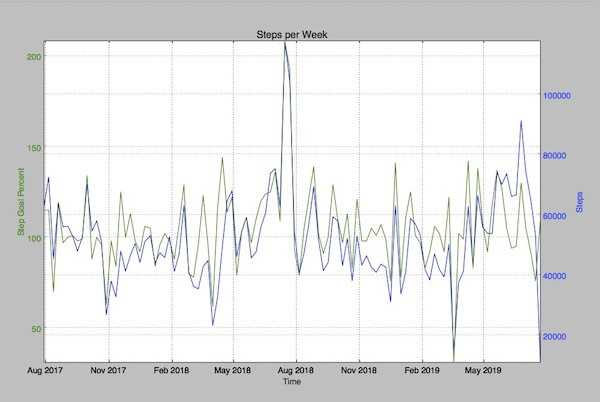
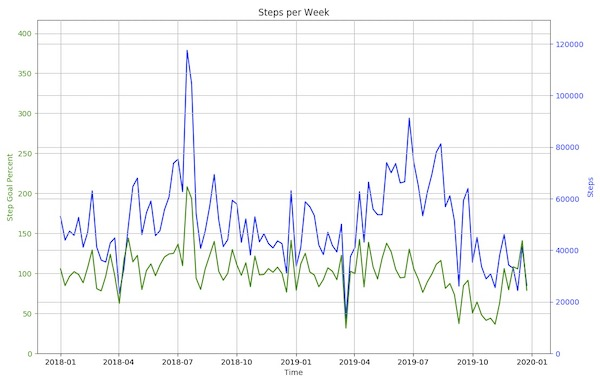
improved graphing support: new daily graph, improved existing graphs

diff --git a/graphs.py b/graphs.py
@@ -11,9 +11,12 @@ import sys
 import getopt
 import datetime
 import matplotlib.pyplot as plt
+import matplotlib.dates as mdates
 import enum
+import dateutil.parser
 
 import HealthDB
+import GarminDB
 import garmin_db_config_manager as GarminDBConfigManager
 from version import print_version
 
@@ -70,7 +73,7 @@ class Graph(object):
 
     @classmethod
     def __graph_mulitple_single_axes(cls, time, data_list, stat_name, ylabel, save):
-        title = '%s Over Time' % stat_name
+        title = f'{stat_name} Over Time'
         figure = plt.figure()
         for index, data in enumerate(data_list):
             color = Colors.from_integer(index).name
@@ -85,13 +88,13 @@ class Graph(object):
         plt.show()
 
     @classmethod
-    def __graph_mulitple(cls, time, data_list, stat_name, period, ylabel_list, save):
+    def __graph_mulitple(cls, time, data_list, stat_name, period, ylabel_list, yrange_list, save):
         units = {
             'days'      : 'Day',
             'weeks'     : 'Week',
             'months'    : 'Month'
         }
-        title = '%s per %s' % (stat_name, units[period])
+        title = f'{stat_name} per {units[period]}'
         figure = plt.figure()
         for index, data in enumerate(data_list):
             color = Colors.from_integer(index).name
@@ -104,7 +107,10 @@ class Graph(object):
             else:
                 axes.yaxis.tick_left()
             axes.tick_params(axis='y', colors=color)
-            axes.set_ylim([min(data), max(data)])
+            if yrange_list is None:
+                axes.set_ylim([min(data), max(data)])
+            else:
+                axes.set_ylim(yrange_list[index])
             axes.grid()
         axes.set_title(title)
         axes.set_xlabel('Time')
@@ -112,20 +118,45 @@ class Graph(object):
             figure.savefig(stat_name + ".png")
         plt.show()
 
+    @classmethod
+    def __graph_over(cls, date, over_data_dict, under_data_dict, title, xlabel, ylabel, save_name=None):
+        figure = plt.figure()
+        axes = figure.add_subplot(111, frame_on=True)
+        axes.fill_between(under_data_dict['time'], under_data_dict['data'], 0, color=Colors.c.name)
+        axes.set_ylim(under_data_dict['limits'])
+        axes.set_xticks([])
+        axes.set_yticks([])
+        axes = figure.add_subplot(111, frame_on=False)
+        axes.plot(over_data_dict['time'], over_data_dict['data'], color=Colors.b.name)
+        axes.set_ylim(over_data_dict['limits'])
+        axes.grid()
+        axes.set_title(title)
+        axes.set_xlabel(xlabel)
+        x_format = mdates.DateFormatter('%H:%M')
+        axes.xaxis.set_major_formatter(x_format)
+        axes.set_ylabel(ylabel)
+        if save_name:
+            figure.savefig(save_name)
+        plt.show()
+
     def _graph_steps(self, time, data, period):
         steps = [entry.steps for entry in data]
         steps_goal_percent = [entry.steps_goal_percent for entry in data]
-        self.__graph_mulitple(time, [steps, steps_goal_percent], 'Steps', period, ['Steps', 'Step Goal Percent'], self.save)
+        yrange_list = [(0, max(steps) * 1.1), (0, max(steps_goal_percent) * 2)]
+        self.__graph_mulitple(time, [steps, steps_goal_percent], 'Steps', period, ['Steps', 'Step Goal Percent'], yrange_list, self.save)
 
     def _graph_hr(self, time, data, period):
         rhr = [entry.rhr_avg for entry in data]
         inactive_hr = [entry.inactive_hr_avg for entry in data]
-        self.__graph_mulitple(time, [rhr, inactive_hr], 'Heart Rate', period, ['RHR', 'Inactive hr'], self.save)
+        self.__graph_mulitple(time, [rhr, inactive_hr], 'Heart Rate', period, ['RHR', 'Inactive hr'], [(30, 100), (30, 100)], self.save)
 
     def _graph_itime(self, time, data, period):
         itime = [entry.intensity_time_mins for entry in data]
         itime_goal_percent = [entry.intensity_time_goal_percent for entry in data]
-        self.__graph_mulitple(time, [itime, itime_goal_percent], 'Intensity Minutes', period, ['Intensity Minutes', 'Intensity Minutes Goal Percent'], self.save)
+        itime_goal_max = max([entry.intensity_time_goal_mins for entry in data])
+        yrange_list = [(0, itime_goal_max * 5), (0, max(itime_goal_percent) * 1.1)]
+        self.__graph_mulitple(time, [itime, itime_goal_percent], 'Intensity Minutes', period, ['Intensity Minutes', 'Intensity Minutes Goal Percent'],
+                              yrange_list, self.save)
 
     def _graph_weight(self, time, data, period):
         weight = [entry.weight_avg for entry in data]
@@ -133,9 +164,9 @@ class Graph(object):
 
     def graph_activity(self, activity, period, days):
         """Generate a graph for the given activity with points every period spanning days."""
-        if period is None or period == 'default':
+        if period is None:
             period = GarminDBConfigManager.graphs_activity_config(activity, 'period')
-        if days is None or days == 'default':
+        if days is None:
             days = GarminDBConfigManager.graphs_activity_config(activity, 'days')
         db_params = GarminDBConfigManager.get_db_params()
         sum_db = HealthDB.SummaryDB(db_params, self.debug)
@@ -151,6 +182,28 @@ class Graph(object):
         graph_func = getattr(self, graph_func_name, None)
         graph_func(time, data, period)
 
+    def graph_date(self, date):
+        """Generate a graph for the given date."""
+        db_params = GarminDBConfigManager.get_db_params()
+        mon_db = GarminDB.MonitoringDB(db_params, self.debug)
+        start_ts = datetime.datetime.combine(date, datetime.datetime.min.time())
+        end_ts = datetime.datetime.combine(date, datetime.datetime.max.time())
+        data = GarminDB.MonitoringHeartRate.get_for_period(mon_db, start_ts, end_ts, GarminDB.MonitoringHeartRate)
+        over_data_dict = {
+            'time'      : [entry.timestamp for entry in data],
+            'data'      : [entry.heart_rate for entry in data],
+            'limits'    : (30, 220)
+        }
+        data = GarminDB.Monitoring.get_for_period(mon_db, start_ts, end_ts, GarminDB.Monitoring)
+        under_data_dict = {
+            'time'      : [entry.timestamp for entry in data],
+            'data'      : [entry.intensity if entry.intensity is not None else 0 for entry in data],
+            'limits'    : (0, 10)
+        }
+        # self.__graph_day(date, (hr_time, hr), (mon_time, activity), self.save)
+        save_name = f"{date}_daily.png" if self.save else None
+        self.__graph_over(date, over_data_dict, under_data_dict, f'Daily Summary for {date}', 'Time of Day', 'hr over activity', save_name=save_name)
+
 
 def __print_usage(program, error=None):
     if error is not None:
@@ -162,6 +215,7 @@ def __print_usage(program, error=None):
     print('    --itime      : Graph intensity time data.')
     print('    --weight     : Graph weight data.')
     print('    --steps      : Graph steps data.')
+    print('    --day        : Graph metric for the given date.')
     print('    --latest     : Graph x most recent days.')
     print('    --period     : days, weeks, or months.')
     print('    --trace      : Turn on debug tracing. Extra logging will be written to log file.')
@@ -182,9 +236,10 @@ def main(argv):
     weight = False
     weight_period = None
     days = None
+    day = None
 
     try:
-        opts, args = getopt.getopt(argv, "adhHl:p:rsSt:wv", ["all", "latest=", "hr=", "itime", "save", "steps=", "trace=", "weight=", "version"])
+        opts, args = getopt.getopt(argv, "adhHl:p:rsSt:wv", ["all", "day=", "latest=", "hr=", "itime", "save", "steps=", "trace=", "weight=", "version"])
     except getopt.GetoptError as e:
         __print_usage(sys.argv[0], str(e))
 
@@ -199,6 +254,10 @@ def main(argv):
             steps = GarminDBConfigManager.is_stat_enabled('steps')
             itime = GarminDBConfigManager.is_stat_enabled('itime')
             weight = GarminDBConfigManager.is_stat_enabled('weight')
+            day = (datetime.datetime.now() - datetime.timedelta(days=1)).date()
+        elif opt in ("--day"):
+            day = dateutil.parser.parse(arg).date()
+            logging.debug("Day: %s", day)
         elif opt in ("-l", "--latest"):
             days = int(arg)
         elif opt in ("-S", "--save"):
@@ -240,6 +299,9 @@ def main(argv):
 
     if weight:
         graph.graph_activity('weight', weight_period, days)
+
+    if day:
+        graph.graph_date(day)
 
 
 if __name__ == "__main__":

diff --git a/HealthDB/summary_base.py b/HealthDB/summary_base.py
@@ -58,14 +58,22 @@ class SummaryBase(db.DBObject):
     @hybrid_property
     def intensity_time_mins(self):
         """Return intensity time as minutes."""
-        if self.intensity_time is not None:
-            return (conversions.time_to_secs(self.intensity_time) / 60)
-        return 0
+        return (conversions.time_to_secs(self.intensity_time) / 60) if self.intensity_time is not None else 0
 
     @intensity_time_mins.expression
     def intensity_time_mins(cls):
         """Return intensity time as minutes."""
         return (cls._secs_from_time(cls.intensity_time) / 60)
+
+    @hybrid_property
+    def intensity_time_goal_mins(self):
+        """Return intensity time as minutes."""
+        return (conversions.time_to_secs(self.intensity_time_goal) / 60) if self.intensity_time_goal is not None else 0
+
+    @intensity_time_goal_mins.expression
+    def intensity_time_goal_mins(cls):
+        """Return intensity time as minutes."""
+        return (cls._secs_from_time(cls.intensity_time_goal) / 60)
 
     @hybrid_property
     def intensity_time_goal_percent(self):
@@ -82,9 +90,7 @@ class SummaryBase(db.DBObject):
     @hybrid_property
     def steps_goal_percent(self):
         """Return the percentage of steps goal achieved."""
-        if self.steps is not None and self.steps_goal is not None:
-            return (self.steps * 100) / self.steps_goal
-        return 0.0
+        return (self.steps * 100) / self.steps_goal if self.steps is not None and self.steps_goal is not None else 0.0
 
     @steps_goal_percent.expression
     def steps_goal_percent(cls):
@@ -94,9 +100,7 @@ class SummaryBase(db.DBObject):
     @hybrid_property
     def floors_goal_percent(self):
         """Return the percentage of floors goal achieved."""
-        if self.floors is not None and self.floors_goal is not None:
-            return (self.floors * 100) / self.floors_goal
-        return 0.0
+        return (self.floors * 100) / self.floors_goal if self.floors is not None and self.floors_goal is not None else 0.0
 
     @floors_goal_percent.expression
     def floors_goal_percent(cls):

diff --git a/GarminDB/monitoring_db.py b/GarminDB/monitoring_db.py
@@ -221,9 +221,7 @@ class Monitoring(MonitoringDB.Base, utilities.DBObject):
     @classmethod
     def get_active_calories(cls, session, activity_type, start_ts, end_ts):
         active_calories = cls.s_get_col_avg_of_max_per_day_for_value(session, cls.active_calories, cls.activity_type, activity_type, start_ts, end_ts)
-        if active_calories is not None:
-            return active_calories
-        return 0
+        return active_calories if active_calories is not None else 0
 
     @classmethod
     def get_stats(cls, session, func, start_ts, end_ts):
